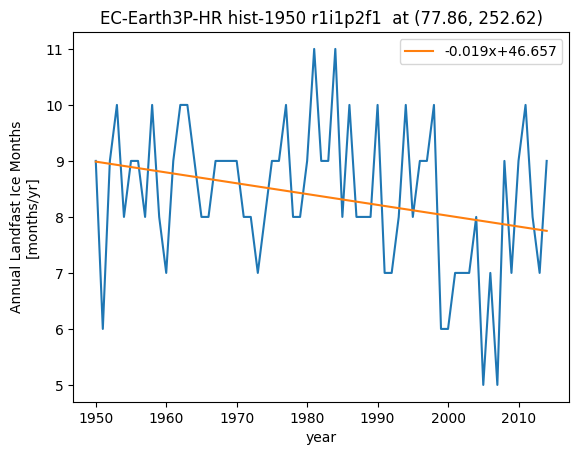
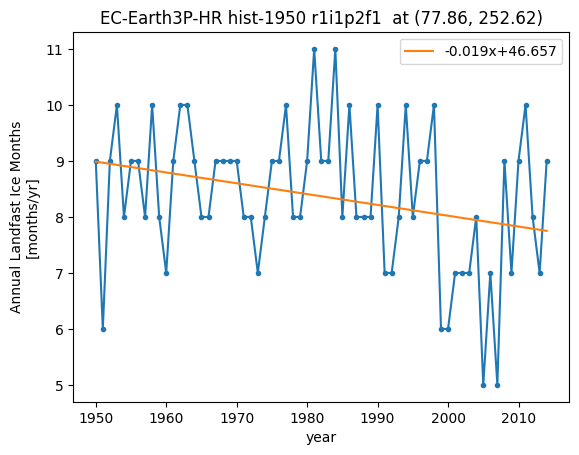
docs(landfast_trends): update documentation to include versions where the data has been filtered to the summer months

diff --git a/docs/docs_analysis/landfast_trends.md b/docs/docs_analysis/landfast_trends.md
@@ -7,12 +7,19 @@ This directly uses the `silandfast` datafiles generated in {doc}`Identifying lan
 
 - [Calculating trends in landfast ice](#calculating-trends-in-landfast-ice)
     - [Annual landfast ice months](#annual-landfast-ice-months)
+    - [Summer landfast ice months](#summer-landfast-ice-months)
     - [Annual landfast months trend for one grid cell](#annual-landfast-months-trend-for-one-grid-cell)
-- [Maps of landfast ice trends](#maps-of-landfast-ice-trends)
-    - [EC-Earth3P-HR landfast ice trend maps](#ec-earth3p-hr-landfast-ice-trend-maps)
-    - [HadGEM3-GC31-MM landfast ice trend maps](#hadgem3-gc31-mm-landfast-ice-trend-maps)
-    - [HadGEM3-GC31-HM landfast ice trend maps](#hadgem3-gc31-hm-landfast-ice-trend-maps)
-    - [HadGEM3-GC31-HH landfast ice trend map](#hadgem3-gc31-hh-landfast-ice-trend-map)
+    - [Summer landfast months trend for one grid cell](#summer-landfast-months-trend-for-one-grid-cell)
+- [Maps of annual landfast ice trends](#maps-of-annual-landfast-ice-trends)
+    - [EC-Earth3P-HR annual landfast ice trend maps](#ec-earth3p-hr-annual-landfast-ice-trend-maps)
+    - [HadGEM3-GC31-MM annual landfast ice trend maps](#hadgem3-gc31-mm-annual-landfast-ice-trend-maps)
+    - [HadGEM3-GC31-HM annual landfast ice trend maps](#hadgem3-gc31-hm-annual-landfast-ice-trend-maps)
+    - [HadGEM3-GC31-HH annual landfast ice trend map](#hadgem3-gc31-hh-annual-landfast-ice-trend-map)
+- [Maps of summer landfast ice trends](#maps-of-summer-landfast-ice-trends)
+    - [EC-Earth3P-HR summer landfast ice trend maps](#ec-earth3p-hr-summer-landfast-ice-trend-maps)
+    - [HadGEM3-GC31-MM summer landfast ice trend maps](#hadgem3-gc31-mm-summer-landfast-ice-trend-maps)
+    - [HadGEM3-GC31-HM summer landfast ice trend maps](#hadgem3-gc31-hm-summer-landfast-ice-trend-maps)
+    - [HadGEM3-GC31-HH summer landfast ice trend map](#hadgem3-gc31-hh-summer-landfast-ice-trend-map)
 
 ---
 ## Calculating trends in landfast ice
@@ -102,6 +109,51 @@ EC_Earth3P_HR_hist_silandfast_sum_2000_CAA_map
 ```
 ![EC_Earth3P-HR_silandfast_CAA_2000_sum_map.png](landfast_trends-img/EC_Earth3P-HR_silandfast_CAA_2000_sum_map.png)
 
+### Summer landfast ice months
+[back to top](#trends-in-landfast-ice-over-time)
+
+For this project, we are only interested in looking at changes that happen in the summer season which we define to be June to October, inclusive.
+
+I wrote a function called `select_months()` which picks out just those months of the year by default.
+```python
+from arctichoke.dataset import select_months 
+
+EC_Earth3P_HR_hist_silandfast_2000_CAA_xr = select_months(
+    EC_Earth3P_HR_hist_silandfast_2000_CAA_xr,
+    verbose = True,
+)
+list(EC_Earth3P_HR_hist_silandfast_2000_CAA_xr['time'].values)
+```
+```console
+(select_months) Selecting months: [6, 7, 8, 9, 10]
+
+[np.datetime64('2000-06-16T00:00:00.000000000'),
+ np.datetime64('2000-07-16T12:00:00.000000000'),
+ np.datetime64('2000-08-16T12:00:00.000000000'),
+ np.datetime64('2000-09-16T00:00:00.000000000'),
+ np.datetime64('2000-10-16T12:00:00.000000000')]
+```
+
+Filtering to the summer months leads to a slightly different map of landfast ice months.
+```python
+from arctichoke.analysis.sum_by_year import sum_by_year
+
+EC_Earth3P_HR_hist_silandfast_CAA_sum_2000_xr = sum_by_year(
+    EC_Earth3P_HR_hist_silandfast_2000_CAA_xr,
+)
+
+from arctichoke.params import CAA_BBOX
+from arctichoke.plot import quadmesh_map
+
+EC_Earth3P_HR_hist_silandfast_sum_2000_CAA_map = quadmesh_map(
+    EC_Earth3P_HR_hist_silandfast_CAA_sum_2000_xr,
+    'silandfast_year_sum',
+    projection = 'Orthographic',
+)
+EC_Earth3P_HR_hist_silandfast_sum_2000_CAA_map
+```
+![EC_Earth3P-HR_silandfast_CAA_2000_summer_sum_map.png](landfast_trends-img/EC_Earth3P-HR_silandfast_CAA_2000_summer_sum_map.png)
+
 Next, I'll load more datafiles to find the annual landfast months per year across 1950-2015.
 
 ```python
@@ -126,10 +178,17 @@ EC_Earth3P_HR_hist_silandfast_CAA_filelist
 I built the `sum_by_year()` function to handle datasets with more than one year using the `groupby` method, resulting in one time slice per year.
 Below, sum `silandfast` data in that list of files and plot the year 1950 from that summed dataset.
 ```python
+from arctichoke.dataset import select_months 
+
+EC_Earth3P_HR_hist_silandfast_2000_CAA_xr = select_months(
+    EC_Earth3P_HR_hist_silandfast_CAA_filelist,
+    verbose = True,
+)
+
 from arctichoke.analysis.sum_by_year import sum_by_year
 
 EC_Earth3P_HR_hist_silandfast_CAA_sum_xr = sum_by_year(
-    EC_Earth3P_HR_hist_silandfast_CAA_filelist,
+    EC_Earth3P_HR_hist_silandfast_2000_CAA_xr,
     verbose = True,
 )
 
@@ -143,6 +202,7 @@ EC_Earth3P_HR_hist_silandfast_sum_CAA_map = quadmesh_map(
 EC_Earth3P_HR_hist_silandfast_sum_CAA_map
 ```
 ```console
+(select_months) Selecting months: [6, 7, 8, 9, 10]
 (sum_by_year) When passing a list of files, ensure their coordinates match as that is not verified in this function.
 (sum_by_year) `save_as`: None
 (sum_by_year) `data_var_list`: ['time_bnds', 'longitude_bnds', 'latitude_bnds', 'silandfast']
@@ -150,14 +210,29 @@ EC_Earth3P_HR_hist_silandfast_sum_CAA_map
 (sum_by_year) Completed summing by year.
 (sum_by_year) Modifying the dataset attributes.
 ```
-![EC_Earth3P-HR_silandfast_CAA_1950_sum_map.png](landfast_trends-img/EC_Earth3P-HR_silandfast_CAA_1950_sum_map.png)
+![EC_Earth3P-HR_silandfast_CAA_1950_summer_sum_map.png](landfast_trends-img/EC_Earth3P-HR_silandfast_CAA_1950_summer_sum_map.png)
 
 ### Annual landfast months trend for one grid cell
 [back to top](#trends-in-landfast-ice-over-time)
 
-Next, I'll look at the `silandfast_year_sum` data from above across time for just one grid cell.
+Next, I'll look at the `silandfast_year_sum` data across time in all months for just one grid cell.
 I chose the indices of `j` and `i` below by trial and error to locate a spot near Ittoqqortoormiit, Greenland.
 ```python
+from arctichoke.path.file_lists import list_variable_files
+
+EC_Earth3P_HR_hist_silandfast_CAA_filelist = list_variable_files(
+    source_id = 'EC-Earth3P-HR',
+    variable_id = 'silandfast',
+    variant_label = 'r1i1p2f1',
+    with_modification = 'trim_CAA_',
+)
+
+from arctichoke.analysis.sum_by_year import sum_by_year
+
+EC_Earth3P_HR_hist_silandfast_CAA_sum_xr = sum_by_year(
+    EC_Earth3P_HR_hist_silandfast_CAA_filelist,
+)
+
 test_spot_xr = EC_Earth3P_HR_hist_silandfast_CAA_sum_xr.isel(j=40, i=625)
 print(f"Latitude: {test_spot_xr['latitude'].values}")
 print(f"Longitude: {test_spot_xr['longitude'].values}")
@@ -180,6 +255,7 @@ this_plot = plot_time_series(
     'silandfast_year_sum',
     plt_title = this_plot_title,
     add_regression = True,
+    marker = '.',
     verbose = True,
 )
 ```
@@ -207,6 +283,7 @@ this_plot = plot_time_series(
     'silandfast_year_sum',
     plt_title = this_plot_title,
     add_regression = True,
+    marker = '.',
     verbose = True,
 )
 ```
@@ -216,14 +293,87 @@ this_plot = plot_time_series(
 ```
 ![EC_Earth3P-HR_silandfast_CAA_sum_trend_at_78_253.png](landfast_trends-img/EC_Earth3P-HR_silandfast_CAA_sum_trend_at_78_253.png)
 
-## Maps of landfast ice trends
+### Summer landfast months trend for one grid cell
+[back to top](#trends-in-landfast-ice-over-time)
+
+To see how the trends in landfast ice are affected by limiting to the summer months, I reproduce the plots above for the two test grid cells after filtering to June-October.
+```python
+from arctichoke.path.file_lists import list_variable_files
+
+EC_Earth3P_HR_hist_silandfast_CAA_filelist = list_variable_files(
+    source_id = 'EC-Earth3P-HR',
+    variable_id = 'silandfast',
+    variant_label = 'r1i1p2f1',
+    with_modification = 'trim_CAA_',
+)
+
+from arctichoke.dataset import select_months 
+
+EC_Earth3P_HR_hist_silandfast_2000_CAA_xr = select_months(
+    EC_Earth3P_HR_hist_silandfast_CAA_filelist,
+)
+
+from arctichoke.analysis.sum_by_year import sum_by_year
+
+EC_Earth3P_HR_hist_silandfast_CAA_sum_xr = sum_by_year(
+    EC_Earth3P_HR_hist_silandfast_2000_CAA_xr,
+)
+
+test_spot_xr = EC_Earth3P_HR_hist_silandfast_CAA_sum_xr.isel(j=40, i=625)
+print(f"Latitude: {test_spot_xr['latitude'].values}")
+print(f"Longitude: {test_spot_xr['longitude'].values}")
+
+from arctichoke.plot import make_title, plot_time_series
+
+# Make the plot title
+this_lon = f"{test_spot_xr['longitude'].values:.2f}"
+this_lat = f"{test_spot_xr['latitude'].values:.2f}"
+this_plot_title = f"{make_title(test_spot_xr)} at ({this_lat}, {this_lon})"
+
+this_plot = plot_time_series(
+    test_spot_xr,
+    'silandfast_year_sum',
+    plt_title = this_plot_title,
+    add_regression = True,
+    marker = '.',
+)
+```
+```console
+Latitude: 70.64608001708984
+Longitude: 335.64935302734375
+```
+![EC_Earth3P-HR_silandfast_CAA_summer_sum_trend_at_Ittoqqortoormiit.png](landfast_trends-img/EC_Earth3P-HR_silandfast_CAA_summer_sum_trend_at_Ittoqqortoormiit.png)
+
+```python
+test_spot_xr = EC_Earth3P_HR_hist_silandfast_CAA_sum_xr.isel(j=198, i=518)
+
+from arctichoke.plot import make_title, plot_time_series
+
+# Make the plot title
+this_lon = f"{test_spot_xr['longitude'].values:.2f}"
+this_lat = f"{test_spot_xr['latitude'].values:.2f}"
+this_plot_title = f"{make_title(test_spot_xr)} at ({this_lat}, {this_lon})"
+
+this_plot = plot_time_series(
+    test_spot_xr,
+    'silandfast_year_sum',
+    plt_title = this_plot_title,
+    add_regression = True,
+    marker = '.',
+)
+```
+![EC_Earth3P-HR_silandfast_CAA_summer_sum_trend_at_78_253.png](landfast_trends-img/EC_Earth3P-HR_silandfast_CAA_summer_sum_trend_at_78_253.png)
+
+As would be expected, the trends for these two sites decreased in magnitude after filtering to just the summer months.
+
+## Maps of annual landfast ice trends
 [back to top](#trends-in-landfast-ice-over-time)
 
 Now, I will find the trend in annual landfast ice months over the `hist-1950` experiment for several models, making a map for each variant. 
 The `make_trend_map()` function calls the `trend_in_time()` function which uses the `np.polyfit()` function to get the regressions, as shown above. 
 When dealing with datasets, it also converts the time values to the expected data type and masks out grid cells that have a value of zero across all time depending on the value of the `mask_where_zero_across_time` argument. 
 
-### EC-Earth3P-HR landfast ice trend maps
+### EC-Earth3P-HR annual landfast ice trend maps
 [back to top](#trends-in-landfast-ice-over-time)
 
 It takes about 2 minutes to make all the plots.
@@ -246,7 +396,7 @@ for this_variant in [
 ![EC_Earth3P-HR_r2i1p2f1_silandfast_CAA_year_sum_trend_map.png](landfast_trends-img/EC_Earth3P-HR_r2i1p2f1_silandfast_CAA_year_sum_trend_map.png)
 ![EC_Earth3P-HR_r3i1p2f1_silandfast_CAA_year_sum_trend_map.png](landfast_trends-img/EC_Earth3P-HR_r3i1p2f1_silandfast_CAA_year_sum_trend_map.png)
 
-### HadGEM3-GC31-MM landfast ice trend maps
+### HadGEM3-GC31-MM annual landfast ice trend maps
 [back to top](#trends-in-landfast-ice-over-time)
 
 It takes about 2 minutes to make all the plots.
@@ -269,7 +419,7 @@ for this_variant in [
 ![HadGEM3-GC31-MM_r1i2p1f1_hist_silandfast_CAA_year_sum_trend_map.png](landfast_trends-img/HadGEM3-GC31-MM_r1i2p1f1_hist_silandfast_CAA_year_sum_trend_map.png)
 ![HadGEM3-GC31-MM_r1i3p1f1_hist_silandfast_CAA_year_sum_trend_map.png](landfast_trends-img/HadGEM3-GC31-MM_r1i3p1f1_hist_silandfast_CAA_year_sum_trend_map.png)
 
-### HadGEM3-GC31-HM landfast ice trend maps
+### HadGEM3-GC31-HM annual landfast ice trend maps
 [back to top](#trends-in-landfast-ice-over-time)
 
 It takes about 2 minutes to make all the plots.
@@ -292,7 +442,7 @@ for this_variant in [
 ![HadGEM3-GC31-HM_r1i2p1f1_hist_silandfast_CAA_year_sum_trend_map.png](landfast_trends-img/HadGEM3-GC31-HM_r1i2p1f1_hist_silandfast_CAA_year_sum_trend_map.png)
 ![HadGEM3-GC31-HM_r1i3p1f1_hist_silandfast_CAA_year_sum_trend_map.png](landfast_trends-img/HadGEM3-GC31-HM_r1i3p1f1_hist_silandfast_CAA_year_sum_trend_map.png)
 
-### HadGEM3-GC31-HH landfast ice trend map
+### HadGEM3-GC31-HH annual landfast ice trend map
 [back to top](#trends-in-landfast-ice-over-time)
 
 There is only one variant for HadGEM3-GC31-HM.
@@ -380,3 +530,96 @@ HadGEM3_GC31_HH_hist_silandfast_trend_map = quadmesh_map(
 HadGEM3_GC31_HH_hist_silandfast_trend_map
 ```
 ![HadGEM3-GC31-HH_r1i1p1f1_hist_silandfast_CAA_year_sum_trend_map.png](landfast_trends-img/HadGEM3-GC31-HH_r1i1p1f1_hist_silandfast_CAA_year_sum_trend_map.png)
+
+---
+
+## Maps of summer landfast ice trends
+[back to top](#trends-in-landfast-ice-over-time)
+
+Now, I will find the trend in _summer_ landfast ice months over the `hist-1950` experiment for the same models and variants as in [Maps of annual landfast ice trends](#maps-of-annual-landfast-ice-trends).
+
+### EC-Earth3P-HR summer landfast ice trend maps
+[back to top](#trends-in-landfast-ice-over-time)
+
+```python
+from arctichoke.plot import make_trend_map
+
+for this_variant in [
+    'r1i1p2f1',
+    'r2i1p2f1',
+    'r3i1p2f1',
+]:
+    make_trend_map(
+        this_source_id = 'EC-Earth3P-HR',
+        this_var = 'silandfast',
+        this_variant_label = this_variant,
+        this_modification = 'trim_CAA_',
+        select_summer = True,
+    )
+```
+![EC_Earth3P-HR_r1i1p2f1_silandfast_CAA_JJASO_sum_trend_map.png](landfast_trends-img/EC_Earth3P-HR_r1i1p2f1_silandfast_CAA_JJASO_sum_trend_map.png)
+![EC_Earth3P-HR_r2i1p2f1_silandfast_CA_JJASO_sum_trend_map.png](landfast_trends-img/EC_Earth3P-HR_r2i1p2f1_silandfast_CAA_JJASO_sum_trend_map.png)
+![EC_Earth3P-HR_r3i1p2f1_silandfast_CAA_JJASO_sum_trend_map.png](landfast_trends-img/EC_Earth3P-HR_r3i1p2f1_silandfast_CAA_JJASO_sum_trend_map.png)
+
+### HadGEM3-GC31-MM summer landfast ice trend maps
+[back to top](#trends-in-landfast-ice-over-time)
+
+```python
+from arctichoke.plot import make_trend_map
+
+for this_variant in [
+    'r1i1p1f1',
+    'r1i2p1f1',
+    'r1i3p1f1',
+]:
+    make_trend_map(
+        this_source_id = 'HadGEM3-GC31-MM',
+        this_var = 'silandfast',
+        this_variant_label = this_variant,
+        this_modification = 'trim_CAA_',
+        select_summer = True,
+    )
+```
+![HadGEM3-GC31-MM_r1i1p1f1_hist_silandfast_CAA_JJASO_sum_trend_map.png](landfast_trends-img/HadGEM3-GC31-MM_r1i1p1f1_hist_silandfast_CAA_JJASO_sum_trend_map.png)
+![HadGEM3-GC31-MM_r1i2p1f1_hist_silandfast_CAA_JJASO_sum_trend_map.png](landfast_trends-img/HadGEM3-GC31-MM_r1i2p1f1_hist_silandfast_CAA_JJASO_sum_trend_map.png)
+![HadGEM3-GC31-MM_r1i3p1f1_hist_silandfast_CAA_JJASO_sum_trend_map.png](landfast_trends-img/HadGEM3-GC31-MM_r1i3p1f1_hist_silandfast_CAA_JJASO_sum_trend_map.png)
+
+### HadGEM3-GC31-HM summer landfast ice trend maps
+[back to top](#trends-in-landfast-ice-over-time)
+
+```python
+from arctichoke.plot import make_trend_map
+
+for this_variant in [
+    'r1i1p1f1',
+    'r1i2p1f1',
+    'r1i3p1f1',
+]:
+    make_trend_map(
+        this_source_id = 'HadGEM3-GC31-HM',
+        this_var = 'silandfast',
+        this_variant_label = this_variant,
+        this_modification = 'trim_CAA_',
+        select_summer = True,
+    )
+```
+![HadGEM3-GC31-HM_r1i1p1f1_hist_silandfast_CAA_JJASO_sum_trend_map.png](landfast_trends-img/HadGEM3-GC31-HM_r1i1p1f1_hist_silandfast_CAA_JJASO_sum_trend_map.png)
+![HadGEM3-GC31-HM_r1i2p1f1_hist_silandfast_CAA_JJASO_sum_trend_map.png](landfast_trends-img/HadGEM3-GC31-HM_r1i2p1f1_hist_silandfast_CAA_JJASO_sum_trend_map.png)
+![HadGEM3-GC31-HM_r1i3p1f1_hist_silandfast_CAA_JJASO_sum_trend_map.png](landfast_trends-img/HadGEM3-GC31-HM_r1i3p1f1_hist_silandfast_CAA_JJASO_sum_trend_map.png)
+
+### HadGEM3-GC31-HH summer landfast ice trend map
+[back to top](#trends-in-landfast-ice-over-time)
+
+```python
+from arctichoke.plot import make_trend_map
+
+make_trend_map(
+    this_source_id = 'HadGEM3-GC31-HH',
+    this_var = 'silandfast',
+    this_variant_label = 'r1i1p1f1',
+    this_modification = 'trim_CAA_',
+    select_summer = True,
+    verbose = True,
+)
+```
+![HadGEM3-GC31-HH_r1i1p1f1_hist_silandfast_CAA_JJASO_sum_trend_map.png](landfast_trends-img/HadGEM3-GC31-HH_r1i1p1f1_hist_silandfast_CAA_JJASO_sum_trend_map.png)